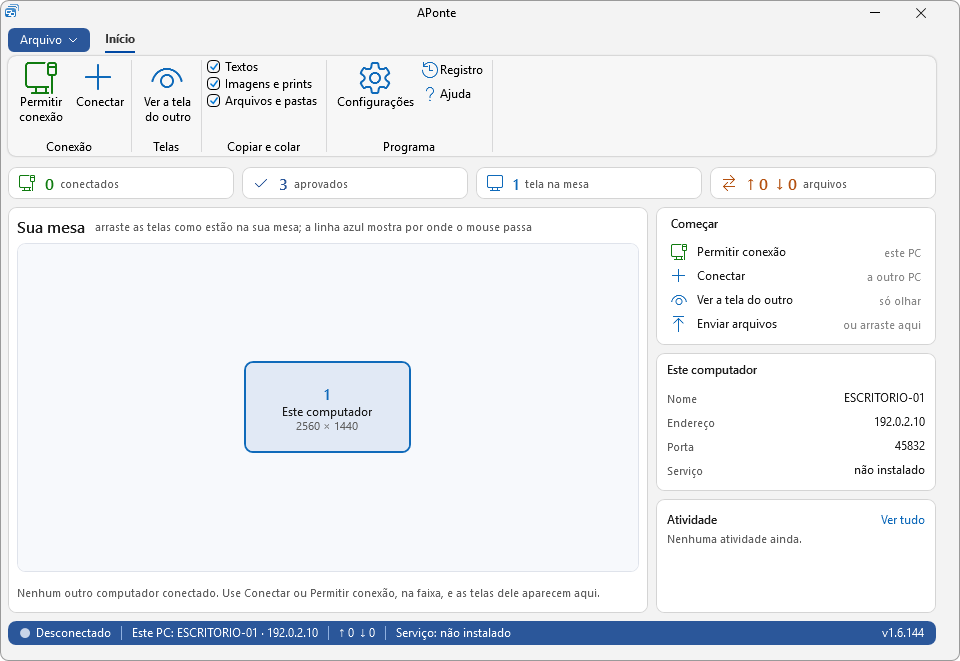
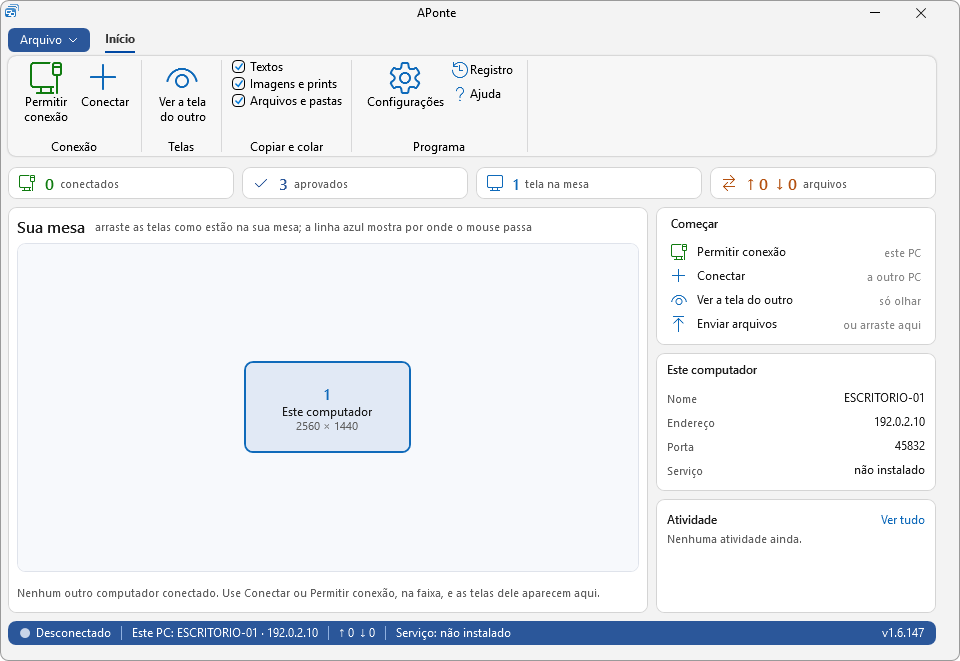
Página de apresentação: imagens e textos atualizados para a versão atual

diff --git a/README.md b/README.md
@@ -50,7 +50,8 @@ Baixe em [GitHub › versão mais recente](https://github.com/Dorflex-DD/APonte/
 ## O que ele faz
 
 - **Mouse e teclado compartilhados.** Leve o ponteiro até a borda da tela e ele passa para o outro computador; o teclado acompanha. `Ctrl+Alt+Pause` devolve o controle ao computador local.
-- **Sua mesa.** Arraste as telas dos outros computadores para onde elas estão de verdade na sua mesa. A tela sempre encaixa encostada em um dos quatro lados (esquerda, direita, acima ou abaixo), monitor a monitor, também em computadores com vários monitores. Uma prévia tracejada mostra onde ela vai ficar, a linha azul mostra por onde o mouse passa e a posição fica salva.
+- **Sua mesa.** Arraste as telas dos outros computadores para onde elas estão de verdade na sua mesa. A tela sempre encaixa encostada em um dos quatro lados (esquerda, direita, acima ou abaixo), monitor a monitor, também em computadores com vários monitores. Uma prévia tracejada mostra onde ela vai ficar, a linha azul mostra por onde o mouse passa e a posição fica salva. No computador cliente a Sua mesa mostra também as telas do servidor, na posição que ele arrumou, e acompanha na hora.
+- **Passagem por monitor.** Com o botão direito num monitor, escolha se o mouse passa ou não por ele. Se o mouse do cliente não passa para o servidor porque a opção "Clientes podem controlar este PC" está desligada, a própria mesa avisa.
 - **Copiar e colar entre os computadores.** Textos, imagens e prints, arquivos e pastas. Cada tipo pode ser ligado ou desligado.
 - **Enviar arquivos.** Arraste para a janela do APonte, escolha pelo seletor de arquivos ou use o item do APonte no menu do botão direito do Explorador de Arquivos.
 - **Ver a tela do outro computador.** Numa janela, por monitor ou todos juntos, também em tela cheia.
@@ -81,6 +82,16 @@ Imagens do próprio APonte, com dados de exemplo.
 <p align="center">
   <img src="docs/imagens/pt/mesa-arrastando.png" width="820" alt="Arrastando as telas de um computador na Sua mesa"><br>
   <sub><b>Arrastando um computador</b> para o outro lado: a prévia tracejada mostra onde cada monitor vai encaixar e a linha azul, por onde o mouse passa.</sub>
+</p>
+
+<p align="center">
+  <img src="docs/imagens/pt/mesa-cliente.png" width="820" alt="Sua mesa no computador cliente, com as telas do servidor"><br>
+  <sub><b>No cliente</b>: a Sua mesa mostra também as telas do servidor, como ele as arrumou, com a linha azul por onde o mouse passa.</sub>
+</p>
+
+<p align="center">
+  <img src="docs/imagens/pt/passagem-por-monitor.png" width="820" alt="Monitor com a passagem do mouse desligada"><br>
+  <sub><b>Passagem por monitor</b>: o monitor 2 do outro computador ficou sem passagem; o mouse entra e sai só pelo monitor 1.</sub>
 </p>
 
 <p align="center">

diff --git a/README.en.md b/README.en.md
@@ -50,7 +50,8 @@ Download from [GitHub › latest version](https://github.com/Dorflex-DD/APonte/r
 ## What it does
 
 - **Shared mouse and keyboard.** Move the pointer to the edge of the screen and it crosses to the other computer; the keyboard follows. `Ctrl+Alt+Pause` gives control back to the local computer.
-- **Your desk.** Drag the other computers' screens to where they really sit on your desk. A screen always snaps against one of the four sides (left, right, above or below), monitor by monitor, also on computers with several monitors. A dashed preview shows where it will land, the blue line shows where the mouse crosses, and the position is saved.
+- **Your desk.** Drag the other computers' screens to where they really sit on your desk. A screen always snaps against one of the four sides (left, right, above or below), monitor by monitor, also on computers with several monitors. A dashed preview shows where it will land, the blue line shows where the mouse crosses, and the position is saved. On the client computer, Your desk also shows the server's screens, in the position the server arranged them, and follows it live.
+- **Crossing per monitor.** Right-click a monitor to choose whether the mouse crosses through it. If the client's mouse does not cross to the server because the "Clients can control this PC" option is off, the desk itself says so.
 - **Copy and paste between computers.** Text, images and screenshots, files and folders. Each kind can be turned on or off.
 - **Send files.** Drag them onto the APonte window, pick them with the file chooser or use the APonte item in the File Explorer right-click menu.
 - **View the other computer's screen.** In a window, one monitor or all of them, also in full screen.
@@ -81,6 +82,16 @@ Screenshots of APonte itself, with sample data.
 <p align="center">
   <img src="docs/imagens/en/mesa-arrastando.png" width="820" alt="Dragging a computer's screens in Your desk"><br>
   <sub><b>Dragging a computer</b> to the other side: the dashed preview shows where each monitor will snap and the blue line shows where the mouse crosses.</sub>
+</p>
+
+<p align="center">
+  <img src="docs/imagens/en/mesa-cliente.png" width="820" alt="Your desk on the client computer, with the server's screens"><br>
+  <sub><b>On the client</b>: Your desk also shows the server's screens, as the server arranged them, with the blue line where the mouse crosses.</sub>
+</p>
+
+<p align="center">
+  <img src="docs/imagens/en/passagem-por-monitor.png" width="820" alt="Monitor with mouse crossing turned off"><br>
+  <sub><b>Crossing per monitor</b>: monitor 2 of the other computer has no crossing; the mouse enters and leaves only through monitor 1.</sub>
 </p>
 
 <p align="center">
